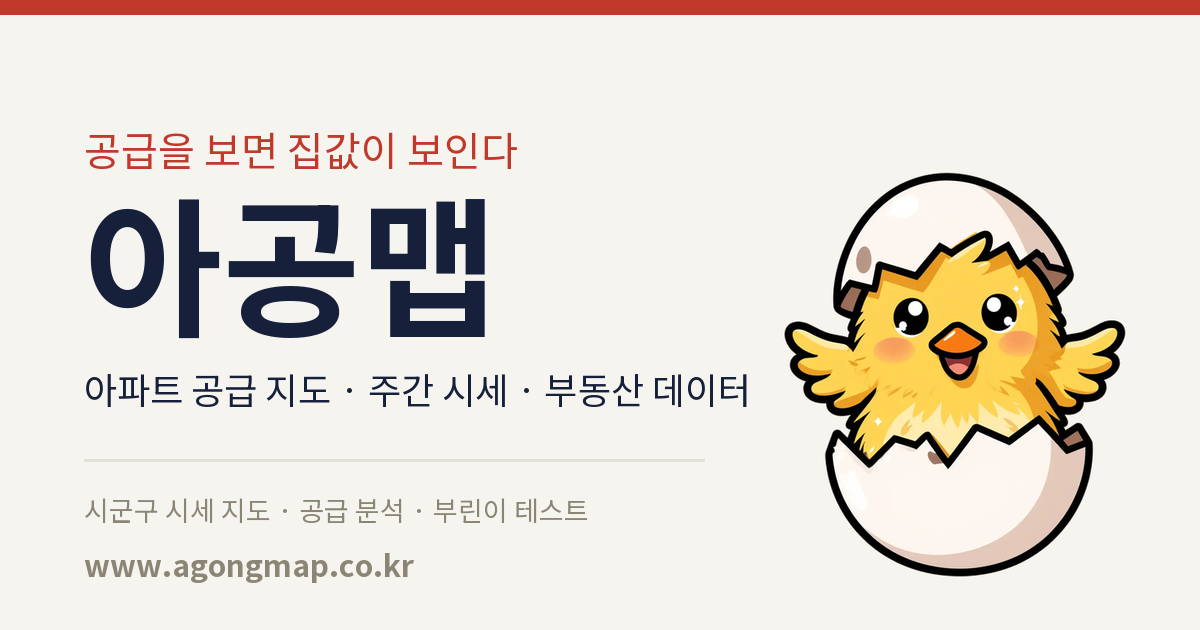
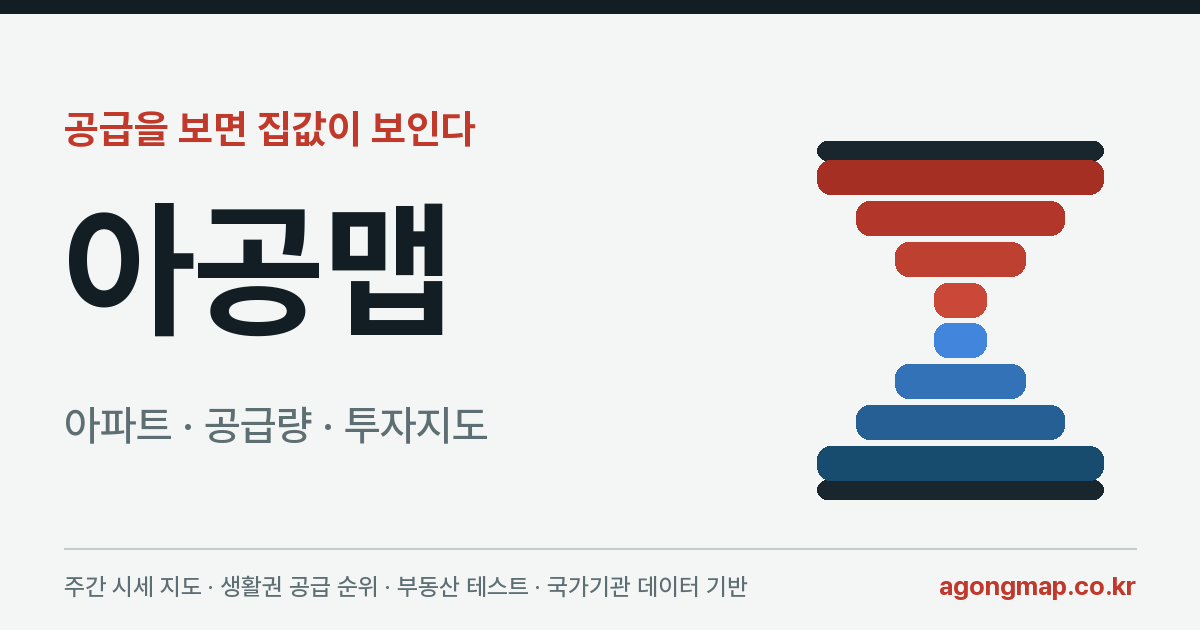
og-brand.png 현 브랜드로 재생성 + 슬로건
옛 병아리·웜톤 카드 → 쿨톤·사이클 모래시계(make_app_icon 재사용). 훅(공급을 보면 집값이 보인다)+아공맵+슬로건(아파트·공급량·투자지도). make_og_cards에 make_brand() 추가

diff --git a/tools/make_og_cards.py b/tools/make_og_cards.py
@@ -135,6 +135,40 @@ def make(out, chip, h1a, h1b, sub, foot, emoji):
     return out
 
 
+def make_brand():
+    """og-brand.png(홈 공유 카드) — 옛 병아리·웜톤 카드를 현 브랜드로 교체.
+    모래시계 아이콘(make_app_icon.draw_icon 재사용) + 훅 + 아공맵 + 슬로건."""
+    from make_app_icon import draw_icon
+    img = Image.new('RGBA', (W, H), PAPER + (255,))
+    d = ImageDraw.Draw(img)
+    d.rectangle([0, 0, W, 13], fill=INK)          # 상단 바: 브랜드는 먹색(퀴즈=그린과 구분)
+    MX = 64
+
+    # 우측: 사이클 모래시계 (배경색 동일해 그대로 붙는다)
+    glass = draw_icon(380, 0.94)
+    img.paste(glass, (770, 130))
+
+    # 훅 (빨강) → 아공맵 (거대 먹색) → 슬로건 (뮤트)
+    d.text((MX, 104), '공급을 보면 집값이 보인다', font=font(40, 'Bold'), fill=RED)
+    nf = font(150, 'Bold')
+    d.text((MX, 180), '아공맵', font=nf, fill=INK)
+    d.text((MX, 400), '아파트 · 공급량 · 투자지도', font=font(42, 'Medium'), fill=MUTED)
+
+    # 하단 구분선 + 푸터
+    fy = 548
+    d.line([MX, fy, W - MX, fy], fill=LINE, width=2)
+    d.text((MX, fy + 24), '주간 시세 지도 · 생활권 공급 순위 · 부동산 테스트 · 국가기관 데이터 기반',
+           font=font(24, 'Medium'), fill=MUTED)
+    dom = 'agongmap.co.kr'
+    df = font(26, 'Bold')
+    dbb = d.textbbox((0, 0), dom, font=df)
+    d.text((W - MX - (dbb[2] - dbb[0]), fy + 22), dom, font=df, fill=RED)
+
+    img.convert('RGB').save(os.path.join(ROOT, 'og-brand.png'), 'PNG', optimize=True)
+    return 'og-brand.png'
+
+
 if __name__ == '__main__':
     for c in CARDS:
         print('written ->', make(*c))
+    print('written ->', make_brand())
